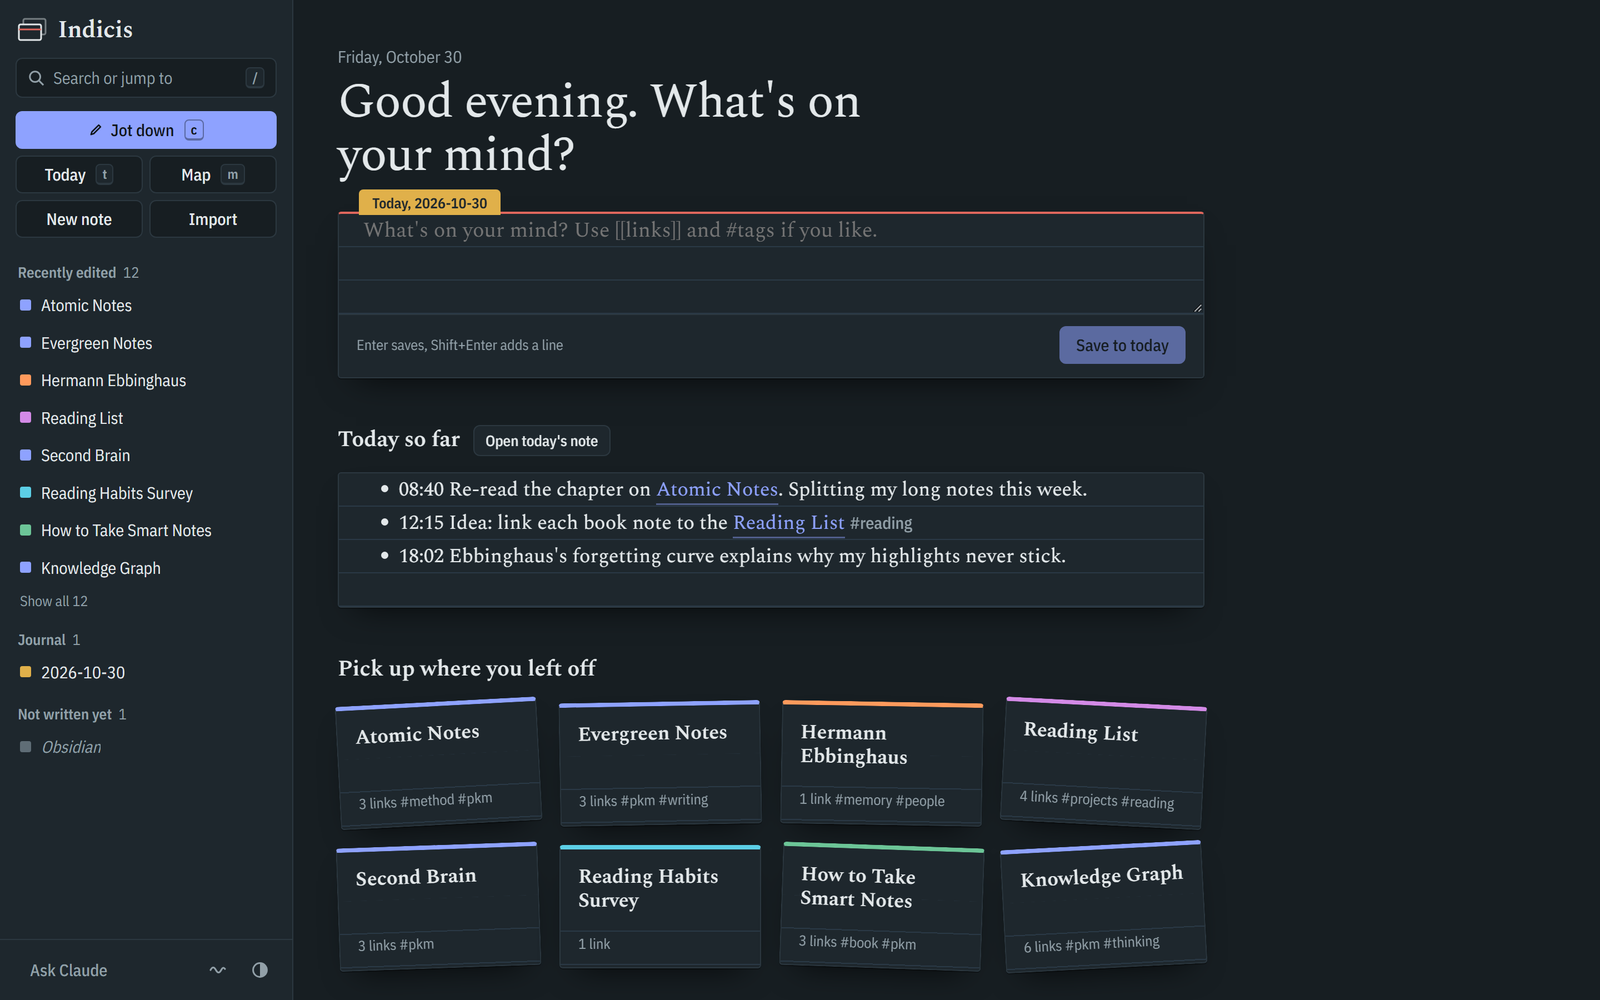
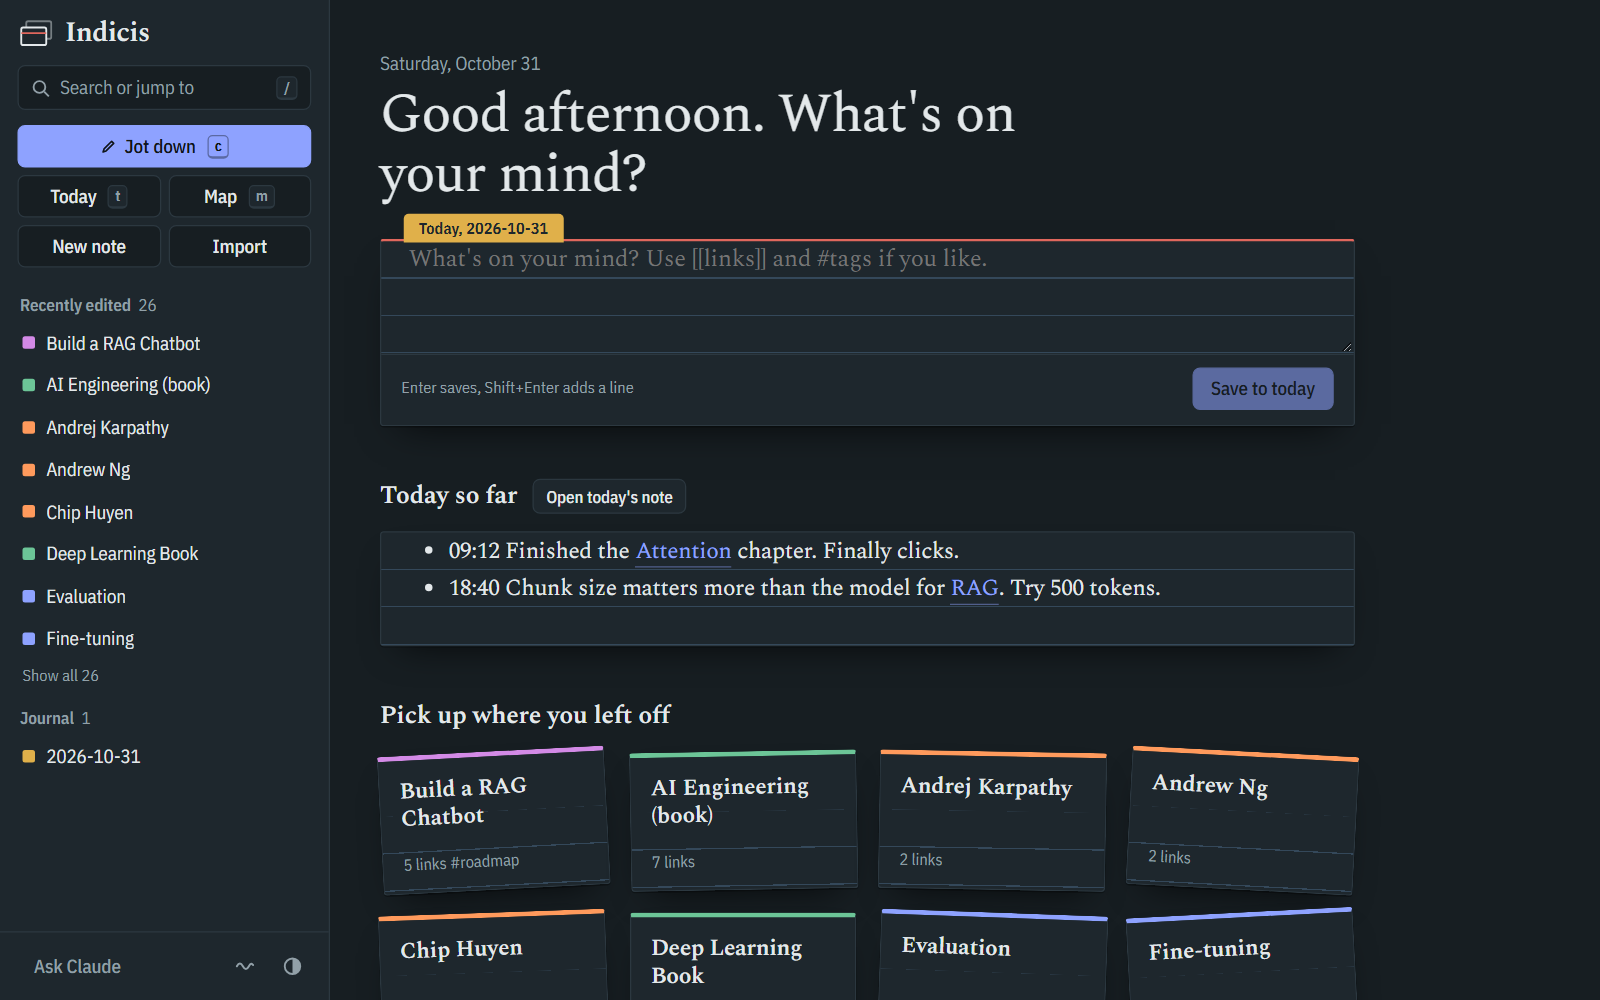
Retake the README screenshots in dark mode with roadmap notes

diff --git a/README.md b/README.md
@@ -20,7 +20,7 @@ Import PDFs and papers as notes. Let Claude suggest connections you missed, only
 
 <br>
 
-<img src="docs/screenshots/note.png" alt="A note open in Indicis: the note on a ruled index card, with its nearby notes as a small graph and the notes that link to it alongside" width="900">
+<img src="docs/screenshots/note.png" alt="A note on RAG open in Indicis, in dark mode: the note on a ruled index card, with its nearby notes as a small graph and the notes that link to it alongside" width="900">
 
 </div>
 
@@ -101,7 +101,7 @@ Most note apps either bury ideas in folders or show a graph that's pretty and us
 </table>
 
 <p align="center">
-  <img src="docs/screenshots/map.png" alt="The map: every note as an index card on graph paper, joined by curved links" width="49%">
+  <img src="docs/screenshots/map.png" alt="The map of an AI engineering roadmap: every note as an index card on graph paper, joined by curved links" width="49%">
   <img src="docs/screenshots/desk.png" alt="The desk: a capture box, today's journal entries and recently edited cards" width="49%">
 </p>
 
